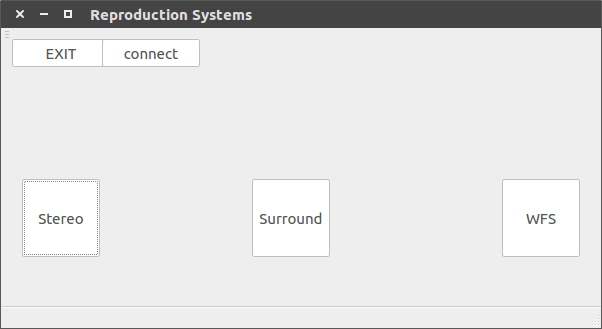
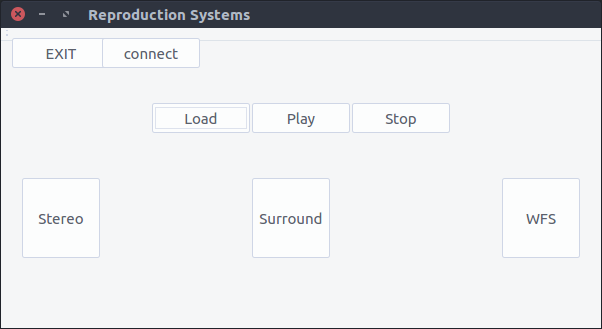
Add Play Stop and Load

diff --git a/SystemGui/mainwindow.cpp b/SystemGui/mainwindow.cpp
@@ -13,6 +13,13 @@ MainWindow::MainWindow(QWidget *parent) :
     ui->setupUi(this);
 
     // Create and position the button
+    load_button = new QPushButton("Load", this);
+    load_button->move(150, 75);
+    play_button = new QPushButton("Play", this);
+    play_button->move(250, 75);
+    stop_button = new QPushButton("Stop", this);
+    stop_button->move(350, 75);
+
     stereo_button = new QPushButton("Stereo", this);
     stereo_button->resize(80, 80);
     stereo_button->move(20, 150);
@@ -31,6 +38,13 @@ MainWindow::MainWindow(QWidget *parent) :
 
 
     // Do the connection
+    connect(load_button, SIGNAL (clicked()),
+            this,  SLOT (slotLoadClicked()));
+    connect(play_button, SIGNAL (clicked()),
+            this,  SLOT (slotPlayClicked()));
+    connect(stop_button, SIGNAL (clicked()),
+            this,  SLOT (slotStopClicked()));
+
     connect(EXIT, SIGNAL (clicked()),
             this,  SLOT (slotConnectExit()));
     connect(connectHost_button, SIGNAL (clicked(bool)),
@@ -64,6 +78,27 @@ void MainWindow::slotConnectClicked(bool checked)
       }
 }
 
+void MainWindow::slotLoadClicked()
+{
+    QTextStream out(stdout);
+    out << "load" << endl;
+    send_TCP("list stereo.wav surround.wav wfs.wav; \n");
+}
+
+void MainWindow::slotPlayClicked()
+{
+    QTextStream out(stdout);
+    out << "play" << endl;
+    send_TCP("play; \n");
+}
+
+void MainWindow::slotStopClicked()
+{
+    QTextStream out(stdout);
+    out << "stop" << endl;
+    send_TCP("stop; \n");
+}
+
 void MainWindow::slotConnectExit(){
     close_connection();
     connectHost_button->setText("Empty");
@@ -74,19 +109,19 @@ void MainWindow::slotSystemAClicked()
 {
     QTextStream out(stdout);
     out << "A" << endl;
-    send_TCP("A \n");
+    send_TCP("A; \n");
 }
 
 void MainWindow::slotSystemBClicked()
 {
   QTextStream out(stdout);
   out << "B" << endl;
-  send_TCP("B \n");
+  send_TCP("B; \n");
 }
 
 void MainWindow::slotSystemCClicked()
 {
     QTextStream out(stdout);
     out << "C" << endl;
-    send_TCP("C \n");
+    send_TCP("C; \n");
 }

diff --git a/SystemGui/mainwindow.h b/SystemGui/mainwindow.h
@@ -21,13 +21,19 @@ public:
 private:
     Ui::MainWindow *ui;
 
+    QPushButton *load_button;
+    QPushButton *play_button;
     QPushButton *stereo_button;
+    QPushButton *stop_button;
     QPushButton *surround_button;
     QPushButton *wfs_button;
     QPushButton *EXIT;
     QPushButton *connectHost_button;
 
 private slots:
+    void slotLoadClicked();
+    void slotPlayClicked();
+    void slotStopClicked();
     void slotConnectClicked(bool checked);
     void slotConnectExit();
     void slotSystemAClicked();

diff --git a/SystemGui/main.cpp b/SystemGui/main.cpp
@@ -24,7 +24,7 @@ int main(int argc, char *argv[])
      global_socket.setPortno(portno);
    } else{
      global_socket.setHostname("localhost");
-     global_socket.setPortno(8080);
+     global_socket.setPortno(8445);
    }
 
 return app.exec();

diff --git a/README.md b/README.md
@@ -17,13 +17,13 @@ Use
 
 only starts the GUI, without starting the TCP client.
 
-Clicking the button `connect` starts the client and establishes TCP connection, by default to `localhost:8080`.
+Clicking the button `connect` starts the client and establishes TCP connection, by default to `localhost:8445`.
 
 The -tcp flag allows to specify host and port, e.g.:
 >./SystemGui -tcp theHost 8060
 
 Starts the GUI and connects to `theHost` port `8060` via TCP.
-
-The button `Stereo` sends an "A", `Surround` a "B" and `WFS` a "C".
-
 `EXIT` closes socket and terminates.
+
+The remaining buttons send a TCP message when clicked, e.g.:
+The button `Stereo` sends an "A", `Surround` a "B" and `WFS` a "C".
